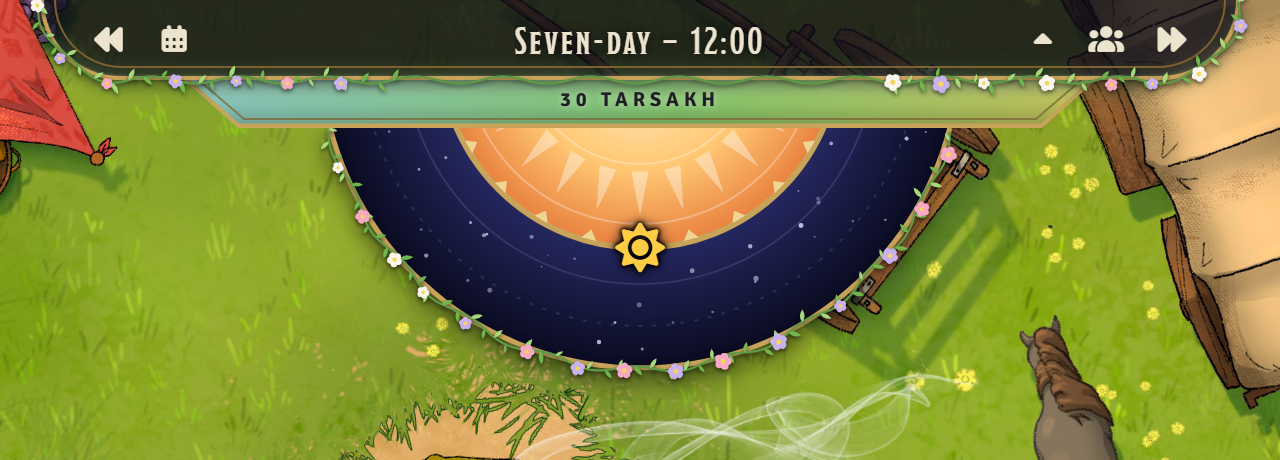
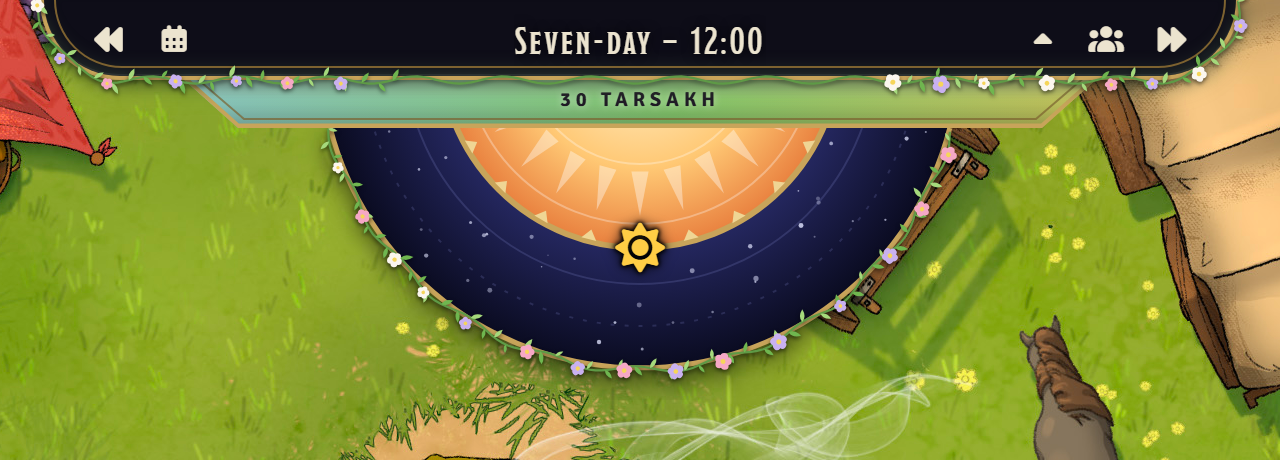
Make the Gilded Night bar solid
The control bar's panel was 82% opaque, so the scene showed through it.
It is now solid. The screenshots are retaken to match.

Changed region(s): [[0.0312, 0.0, 0.9688, 0.1826]]

diff --git a/styles/calendar.css b/styles/calendar.css
@@ -10,7 +10,7 @@
   --sdc-gold: #c8a45a;
   --sdc-gold-light: #efd594;
   --sdc-gold-dark: #7d6230;
-  --sdc-panel: rgb(14 13 24 / 82%);
+  --sdc-panel: rgb(14 13 24);
   --sdc-text: #ece4cf;
   --sdc-width: 600px;
   --sdc-bar-height: 40px;

diff --git a/CHANGELOG.md b/CHANGELOG.md
@@ -23,6 +23,10 @@ All notable changes to Simple D&D Calendar.
 - **Calendar styles.** Each player can pick **Gilded Night** (the default), **Parchment** or **Underdark** under
   **Calendar Style**.
 
+### Changed
+
+- The Gilded Night bar is solid, rather than letting the scene show through.
+
 ## 1.0.0 — 2026-10-22
 
 ### New
